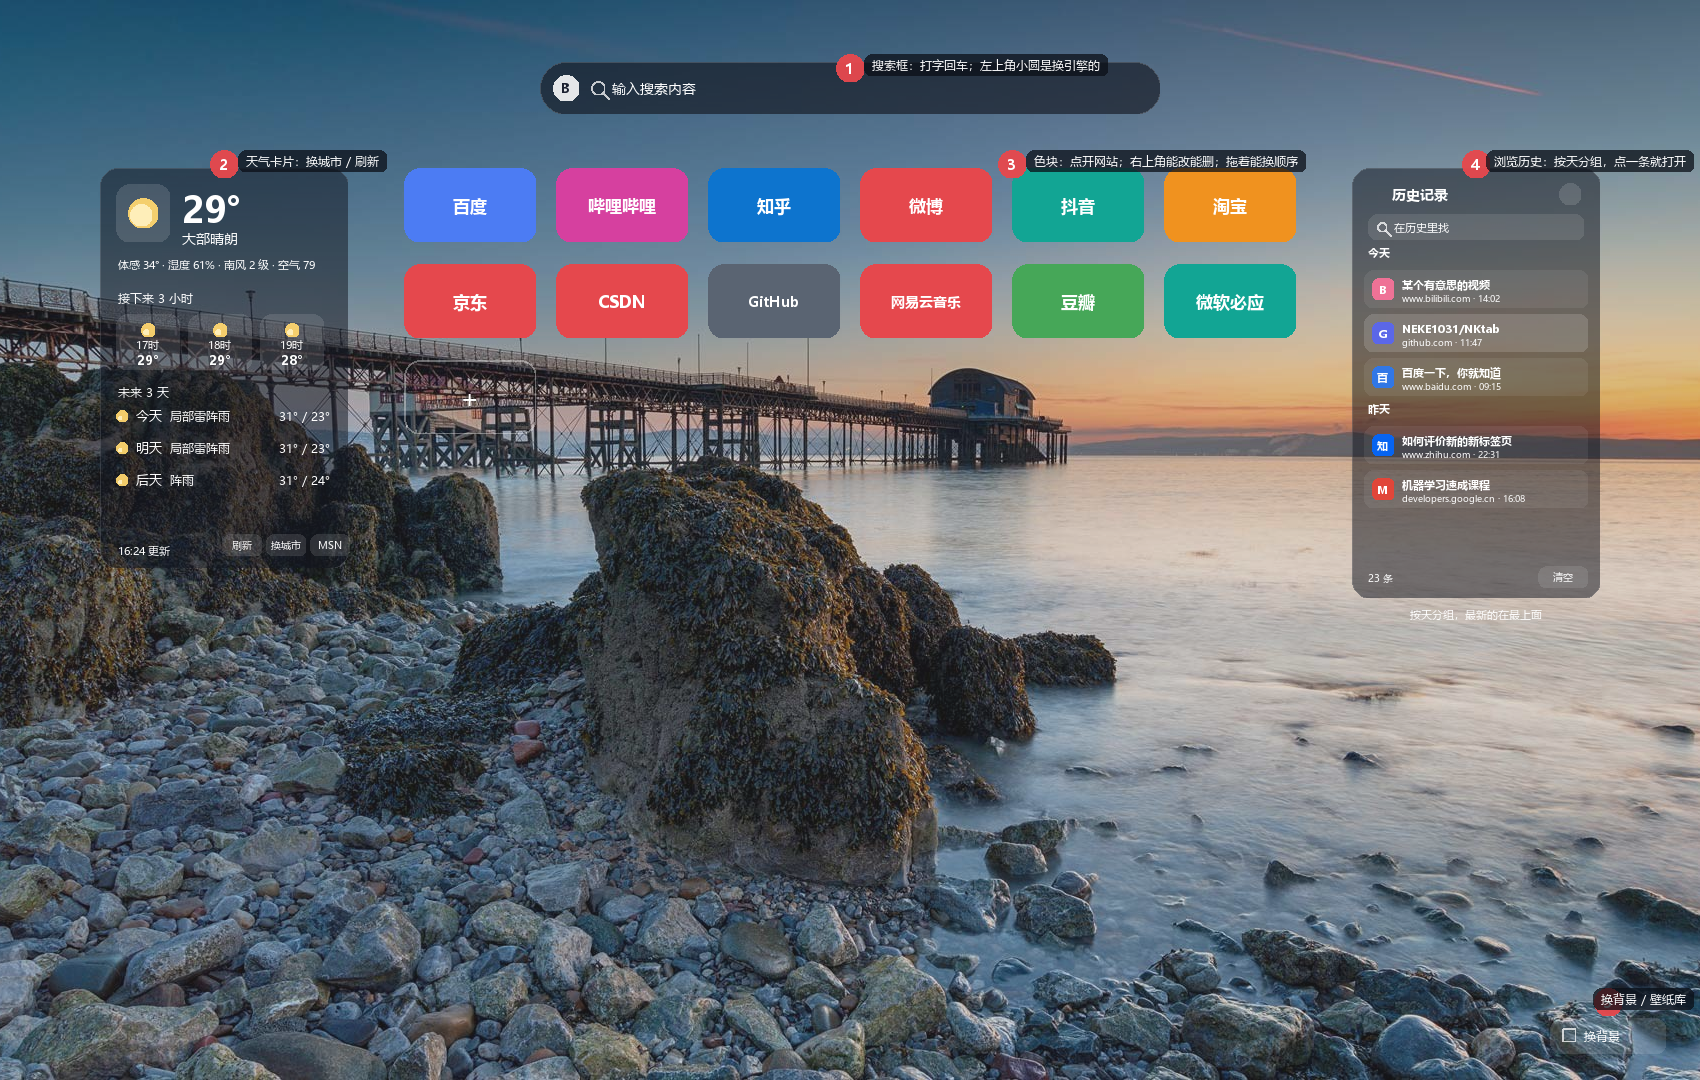
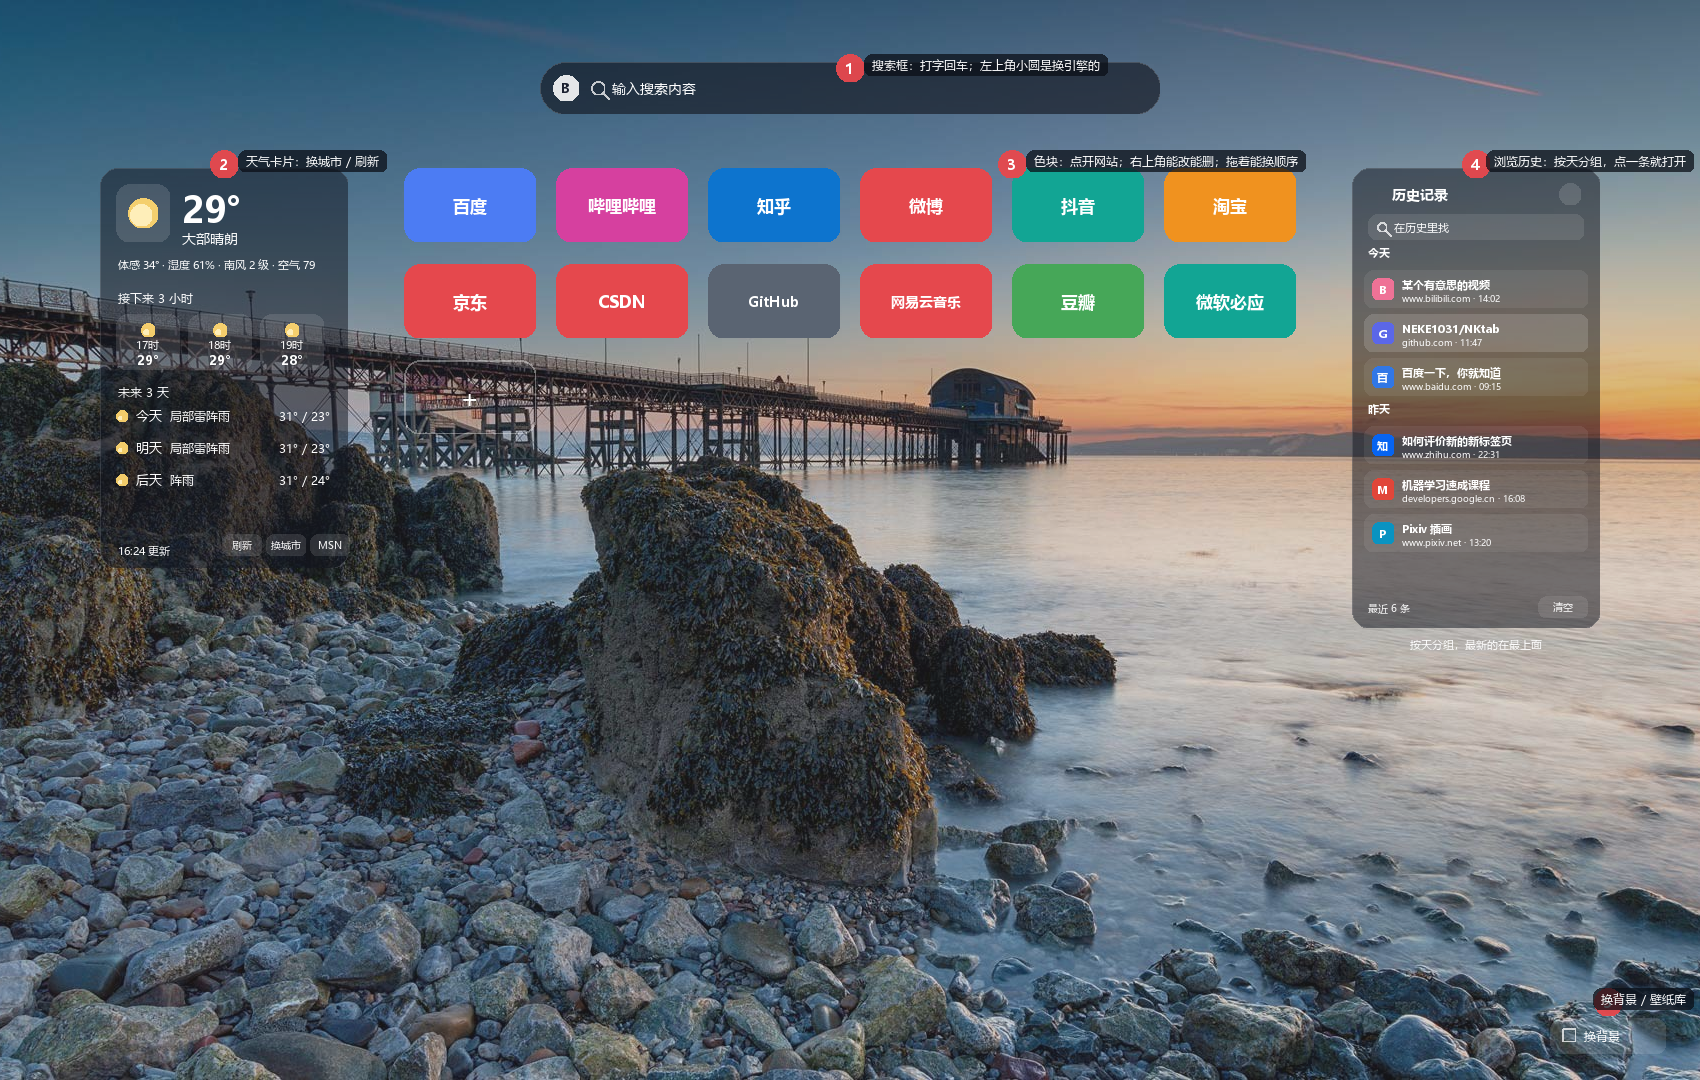
右边那一栏只摆最近 6 条
一屏摆 6 条就够扫一眼了，多了一直滚还不如开 edge://history。
但读还是读 200 条（MAX_ITEMS），所以过滤框照样能翻到第 7 条以后的旧记录；
命中比 6 条多时，底下写成「6 / 12 条」告诉你有几条没摆出来。

- history.js 新增 RECENT_SHOWN = 6
- newtab.js 的 paintRecent 先过滤再截断；底部改成「最近 N 条 / 找到 N 条 / x / y 条」
- 测试补了 7 条断言：只摆 6 条、过滤能翻到上限以外、命中超额时的写法
- README 与 docs/02 说明图同步（图里那栏也改成 6 条）

Changed region(s): [[0.7794, 0.55, 0.9665, 0.6111], [0.8106, 0.4889, 0.8729, 0.5194]]

diff --git a/newtab.js b/newtab.js
@@ -49,6 +49,7 @@ import { fetchWeather, iconFor, REFRESH_AFTER } from "./weather.js";
 
 import {
   MAX_ITEMS,
+  RECENT_SHOWN,
   clockText,
   entryTitle,
   forgetAll,
@@ -1480,7 +1481,9 @@ function paintRecentRow(item) {
 
 /** 把现在的 recentItems 和过滤词画出来。 */
 function paintRecent() {
-  const shown = recentState === "ok" ? pickItems(recentItems, recentKeyword) : [];
+  const matched = recentState === "ok" ? pickItems(recentItems, recentKeyword) : [];
+  // 只摆最近几条；过滤的时候也一样，找到的多就摆前面几条，底下写清一共几条。
+  const shown = matched.slice(0, RECENT_SHOWN);
   const frag = document.createDocumentFragment();
 
   if (recentState !== "ok") {
@@ -1501,10 +1504,12 @@ function paintRecent() {
 
   if (recentState !== "ok") {
     recentCount.textContent = "";
-  } else if (recentKeyword) {
-    recentCount.textContent = `${shown.length} / ${recentItems.length} 条`;
+  } else if (!recentKeyword) {
+    recentCount.textContent = `最近 ${shown.length} 条`;
+  } else if (matched.length > shown.length) {
+    recentCount.textContent = `${shown.length} / ${matched.length} 条`;
   } else {
-    recentCount.textContent = `${recentItems.length} 条`;
+    recentCount.textContent = `找到 ${matched.length} 条`;
   }
 }
 

diff --git a/history.js b/history.js
@@ -12,8 +12,17 @@
  * 存在 chrome.storage.sync 里，名字很像但完全是两回事。
  */
 
-/** 一次最多读多少条。面板就那么大，再多也滚不完，只会更慢。 */
+/** 一次最多读多少条。读得多是为了「在历史里找」能翻到更早的，不是全都摆出来。 */
 export const MAX_ITEMS = 200;
+
+/**
+ * 面板上一次只摆几条。
+ *
+ * 这一栏又高又窄，摆多了得一直滚，翻起来还不如直接开 edge://history；
+ * 只摆最近几条，扫一眼就够。想看更早的就在过滤框里打两个字 ——
+ * 过滤是在读回来的 MAX_ITEMS 条里找，所以第 7 条以后也照样找得到。
+ */
+export const RECENT_SHOWN = 6;
 
 /** 一天多少毫秒，「昨天」那一步要用。 */
 const DAY_MS = 24 * 60 * 60 * 1000;

diff --git a/tools/gen_docs_images.py b/tools/gen_docs_images.py
@@ -114,6 +114,8 @@ SITES = [
 
 TILE_W, TILE_H, GAP_X, GAP_Y = 132, 74, 20, 22
 SIDE_W = 248
+# 单独抠出来画的这一栏有多高（要装下 6 条 + 顶栏 + 过滤框 + 底栏）
+PANEL_H = 460
 
 
 def draw_tiles(base, d, box, cols, sites, with_add=True):
@@ -172,7 +174,7 @@ def draw_panel(base, d, box, hover_row=1):
     传 None 就都不带。返回每一条的中心 y（绝对值），好让外面的编号点得着。
     """
     x, y = box
-    w, h = SIDE_W, 430
+    w, h = SIDE_W, PANEL_H
     glass(base, (x, y, x + w, y + h), 18)
 
     # 顶栏：小闹钟 + 历史记录 + 刷新
@@ -198,7 +200,8 @@ def draw_panel(base, d, box, hover_row=1):
                   ("G", "NEKE1031/NKtab", "github.com · 11:47", (88, 101, 242)),
                   ("百", "百度一下，你就知道", "www.baidu.com · 09:15", (43, 120, 241))]),
         ("昨天", [("知", "如何评价新的新标签页", "www.zhihu.com · 22:31", (0, 102, 255)),
-                  ("M", "机器学习速成课程", "developers.google.cn · 16:08", (234, 67, 53))]),
+                  ("M", "机器学习速成课程", "developers.google.cn · 16:08", (234, 67, 53)),
+                  ("P", "Pixiv 插画", "www.pixiv.net · 13:20", (0, 150, 200))]),
     ]
     ty = y + 84
     centers = []
@@ -220,7 +223,7 @@ def draw_panel(base, d, box, hover_row=1):
         ty += 6
 
     # 底部：条数 + 清空
-    text(d, (x + 16, y + h - 20), "23 条", 10, False, "lm", (255, 255, 255, 140))
+    text(d, (x + 16, y + h - 20), "最近 6 条", 10, False, "lm", (255, 255, 255, 140))
     rrect(base, (x + w - 62, y + h - 32, x + w - 12, y + h - 10), 9, (255, 255, 255, 26))
     text(d, (x + w - 37, y + h - 21), "清空", 10, False, "mm", (255, 255, 255, 200))
 
@@ -357,7 +360,7 @@ def panel_shot():
         ("3", "left", px + 18, py + 84),
         ("4", "left", px + 31, centers[0]),
         ("5", "right", px + SIDE_W - 24, centers[1]),
-        ("6", "right", px + SIDE_W - 37, py + 430 - 21),
+        ("6", "right", px + SIDE_W - 37, py + PANEL_H - 21),
     ]
     for num, side, tx, ty in marks:
         mx = 120 if side == "left" else 442
@@ -374,7 +377,7 @@ def panel_shot():
         ("3", "按天分组", "今天、昨天，再往前就写 10月30日 / 2025年3月8日"),
         ("4", "一条 = 首字母方块 + 标题 + 域名·时间", "方块颜色跟域名绑定，同一个站永远同色"),
         ("5", "鼠标移上去，右边出 ×", "点一下只删这一条（浏览器历史里也真删）"),
-        ("6", "底部：多少条 + 清空", "清空要点两下，第一下只是问一句"),
+        ("6", "底部：最近几条 + 清空", "一屏只摆 6 条，更早的在过滤框里找"),
     ]
     ly = 130
     for num, head, tail in lines:

diff --git a/README.md b/README.md
@@ -92,8 +92,11 @@
 |刷新|外面又逛了新页面，点标题右边那个圆圈箭头重新读|
 |看日期|按天分组：`今天`、`昨天`，再往前写 `10月30日`，跨年了写 `2025年3月8日`|
 
-一次最多读 **200 条**（`history.js` 里的 `MAX_ITEMS`），按最近访问排，同一个网址只占一行。
+一屏只摆**最近 6 条**（`history.js` 里的 `RECENT_SHOWN`），按最近访问排，同一个网址只占一行。
 左边那个小方块是域名首字母，颜色跟域名绑定 —— 同一个网站永远同一个颜色，扫一眼就认出来。
+
+摆得少不代表找不到旧的：后面还读着 200 条（`MAX_ITEMS`），在过滤框里打两个字，**第 7 条以后的也照样能翻出来**；
+命中比 6 条多的时候，底下会写成「6 / 12 条」告诉你有几条没摆出来。
 
 > **它只读本机的历史，不上传任何东西。** 这是除了天气之外唯一碰浏览器数据的地方，
 > 而且只读不写；除非你自己点了 `×` 或「清空」，否则一条都不会动。
